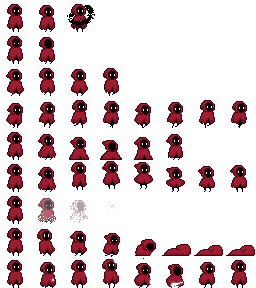
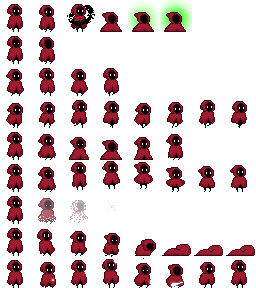
Healing process

Changed region(s): [[0.5, 0.0, 0.75, 0.125], [0.375, 0.0312, 0.4688, 0.125]]

diff --git a/src/player.rs b/src/player.rs
@@ -33,6 +33,7 @@ pub enum PlayerState {
     Sprinting,
     Attacking,
     Blocking,
+    Healing,
     Dead
 }
 
@@ -77,27 +78,24 @@ pub struct Player {
 
     walk_frame_counter: usize,
     walk_frame_time: f32,
+
+    healing_frame_counter: usize,
+    healing_frame_time: f32,
+    healing_duration_elapsed: f32,
 }
 
 impl Player {
     pub fn new() -> Self {
-        Self { x: 0., y: 0., facing_direction: PlayerFacingDirection::Right, state: PlayerState::Idle, health: 20, idle_frame_counter: 0, idle_frame_time: 0., attack_frame_counter: 0, attack_frame_time: 0., sprint_frame_counter: 0, sprint_frame_time: 0., walk_frame_counter: 0, walk_frame_time: 0. }
-    }
-
-    fn is_facing_down(&self) -> bool {
-        self.facing_direction == PlayerFacingDirection::Down || self.facing_direction == PlayerFacingDirection::BottomLeft || self.facing_direction == PlayerFacingDirection::BottomRight
-    }
-
-    fn is_facing_up(&self) -> bool {
-        self.facing_direction == PlayerFacingDirection::Up || self.facing_direction == PlayerFacingDirection::TopLeft || self.facing_direction == PlayerFacingDirection::TopRight
-    }
-
-    fn is_facing_left(&self) -> bool {
-        self.facing_direction == PlayerFacingDirection::Left || self.facing_direction == PlayerFacingDirection::TopLeft || self.facing_direction == PlayerFacingDirection::BottomLeft
-    }
-
-    fn is_facing_right(&self) -> bool {
-        self.facing_direction == PlayerFacingDirection::Right || self.facing_direction == PlayerFacingDirection::TopRight || self.facing_direction == PlayerFacingDirection::BottomRight
+        Self { x: 0., 
+               y: 0., 
+               facing_direction: PlayerFacingDirection::Right, 
+               state: PlayerState::Idle, 
+               health: 20, 
+               idle_frame_counter: 0, idle_frame_time: 0., 
+               attack_frame_counter: 0, attack_frame_time: 0., 
+               sprint_frame_counter: 0, sprint_frame_time: 0., 
+               walk_frame_counter: 0, walk_frame_time: 0.,
+               healing_frame_counter: 0, healing_frame_time: 0., healing_duration_elapsed: 0. }
     }
 
     fn take_damage(&mut self, damage: i32) {
@@ -105,12 +103,22 @@ impl Player {
     }
 
     pub fn get_attacked(&mut self, damage: i32) -> bool {
+        if !self.is_aggroable() {
+            return false;
+        }
         if self.is_blocking() {
             println!("Player blocked the attack");
             return false;
         }
         self.take_damage(damage);
         println!("Player took {} damage", damage);
+        true
+    }
+
+    pub fn is_aggroable(&self) -> bool {
+        if self.is_dead() || self.is_healing(){
+            return false;
+        }
         true
     }
 
@@ -122,8 +130,19 @@ impl Player {
         self.state == PlayerState::Blocking
     }
 
-    pub fn is_dead(&self) -> bool {
+    fn is_dead(&self) -> bool {
         self.state == PlayerState::Dead
+    }
+
+    fn is_healing(&self) -> bool {
+        self.state == PlayerState::Healing
+    }
+
+    fn heal(&mut self) {
+        self.health += SANCTUARY_HEALING;
+        println!("Player health now at {}", self.health);
+        self.state = PlayerState::Healing;
+
     }
 }
 
@@ -192,7 +211,7 @@ fn update_player_state(
 ) {
     let mut player = query.single_mut();
 
-    if player.state == PlayerState::Attacking || player.state == PlayerState::Dead {
+    if player.state == PlayerState::Attacking || player.state == PlayerState::Dead || player.state == PlayerState::Healing {
         return;
     }
 
@@ -222,7 +241,7 @@ fn player_move(
     let player_speed: f32;
     let mut player = player_query.single_mut();
 
-    if player.is_dead() {
+    if player.is_dead() || player.is_healing() {
         return;
     }
 
@@ -369,6 +388,21 @@ fn update_player_sprite(
         PlayerState::Dead => {
             texture.index = 63;
         },
+        PlayerState::Healing => {
+            player.healing_frame_time += time.delta_seconds();
+            player.healing_duration_elapsed += time.delta_seconds();
+
+            if player.healing_frame_time >= 0.4 {
+                player.healing_frame_counter = (player.healing_frame_counter + 1) % 3;
+                player.healing_frame_time = 0.0; 
+            }
+            texture.index = 3 + player.healing_frame_counter;
+            if player.healing_duration_elapsed >= 3. {
+                player.state = PlayerState::Idle;
+                player.healing_duration_elapsed = 0.;
+            }
+            
+        },
     }
 }
 
@@ -494,14 +528,16 @@ fn sanctuary_detection(
     mut sanctuary_query: Query<&mut Sanctuary>,
     keyboard_input: Res<Input<KeyCode>>,
 ) {
-    let player = player_query.single_mut();
+    let mut player = player_query.single_mut();
     for mut sanctuary in sanctuary_query.iter_mut() {
         if can_interact_with(&player, &InteractionType::Sanctuary, player.x, player.y + 1., None, Some(&sanctuary), None) ||
             can_interact_with(&player, &InteractionType::Sanctuary, player.x, player.y - 1., None, Some(&sanctuary), None) ||
             can_interact_with(&player, &InteractionType::Sanctuary, player.x + 1., player.y, None, Some(&sanctuary), None) ||
             can_interact_with(&player, &InteractionType::Sanctuary, player.x - 1., player.y, None, Some(&sanctuary), None) {
             if keyboard_input.just_pressed(KeyCode::Space) {
-                sanctuary.unlock();
+                if sanctuary.unlock() {  
+                    player.heal();
+                }
                 break;
             }
         }

diff --git a/src/ennemies.rs b/src/ennemies.rs
@@ -411,7 +411,7 @@ fn ennemy_aggro_detection(
     for (mut ennemy, transform) in ennemy_query.iter_mut() {
         let distance = transform.translation.distance(player_transform.translation);
 
-        if distance < ENNEMY_AGGRO_DISTANCE && !player.is_dead() {
+        if distance < ENNEMY_AGGRO_DISTANCE && player.is_aggroable() {
                 ennemy.state = EnnemyState::Chasing;
                 ennemy.chase_player(&player, &collision_query);
             
@@ -423,7 +423,7 @@ fn ennemy_aggro_detection(
 }
 
 fn state_speed_update(
-    mut ennemy_query: Query<(&mut Ennemy)>
+    mut ennemy_query: Query<&mut Ennemy>
 )
  {
     for (mut ennemy) in ennemy_query.iter_mut() {

diff --git a/src/constants.rs b/src/constants.rs
@@ -29,9 +29,10 @@ pub const TOWER_WIDTH: f32 = 67.;
 pub const SANCTUARY_HEIGHT: f32 = 75.;
 pub const SANCTUARY_WIDTH: f32 = 96.;
 pub const SANCTUARY_NB: i32 = 10;
+pub const SANCTUARY_HEALING: i32 = 5;
 
 // ENNEMIES
-pub const ENNEMIES_NUMBER: i32 = 150;
+pub const ENNEMIES_NUMBER: i32 = 25;
 pub const ENNEMY_SPRITE_SIZE: f32 = 32.;
 pub const ENNEMY_SPRITE_SCALE: f32 = 0.5;
 pub const ENNEMY_HITBOX_WIDTH: f32 = ENNEMY_SPRITE_SIZE * ENNEMY_SPRITE_SCALE;

diff --git a/src/structures.rs b/src/structures.rs
@@ -65,13 +65,14 @@ impl Sanctuary {
         Sanctuary::new(x, y)
     }
 
-    pub fn unlock(&mut self) {
+    pub fn unlock(&mut self) -> bool {
         if self.unlocked {
             println!("Sanctuaire déjà débloqué");
-            return;
+            return false;
         }
         println!("Sanctuaire débloqué");
         self.unlocked = true;
+        true
     }
 
     pub fn is_visible(&self) -> bool {
